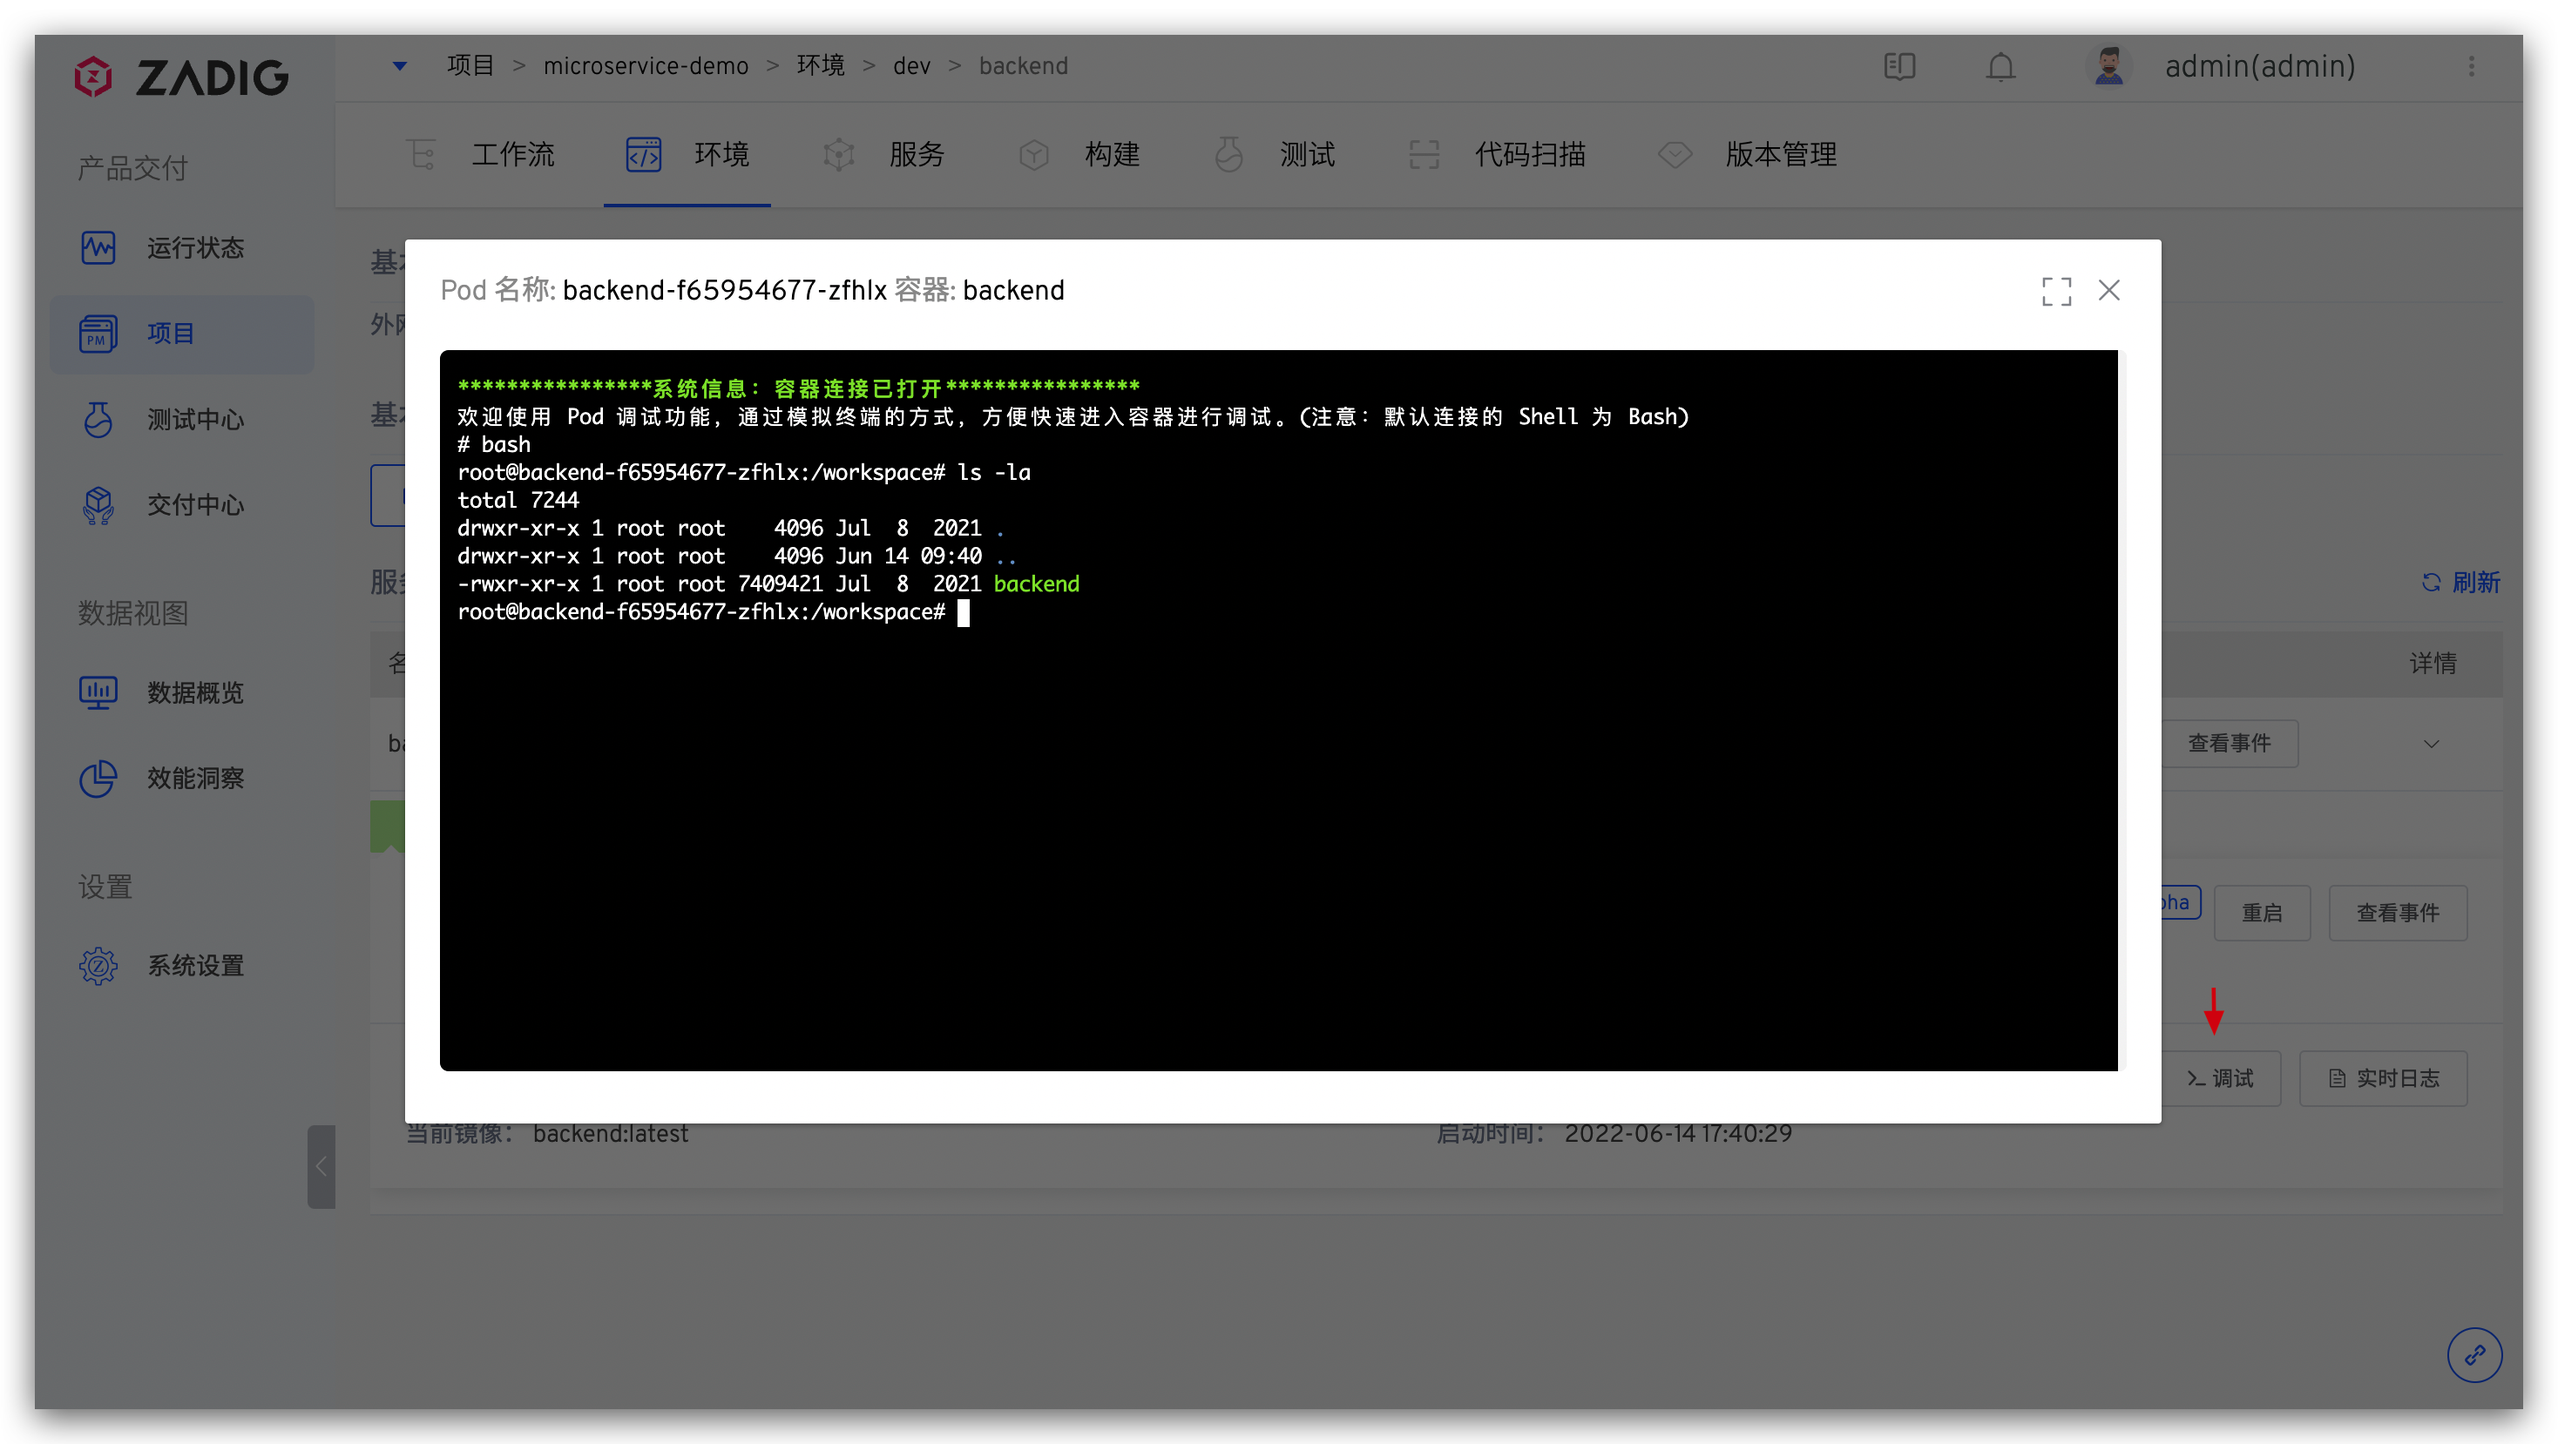
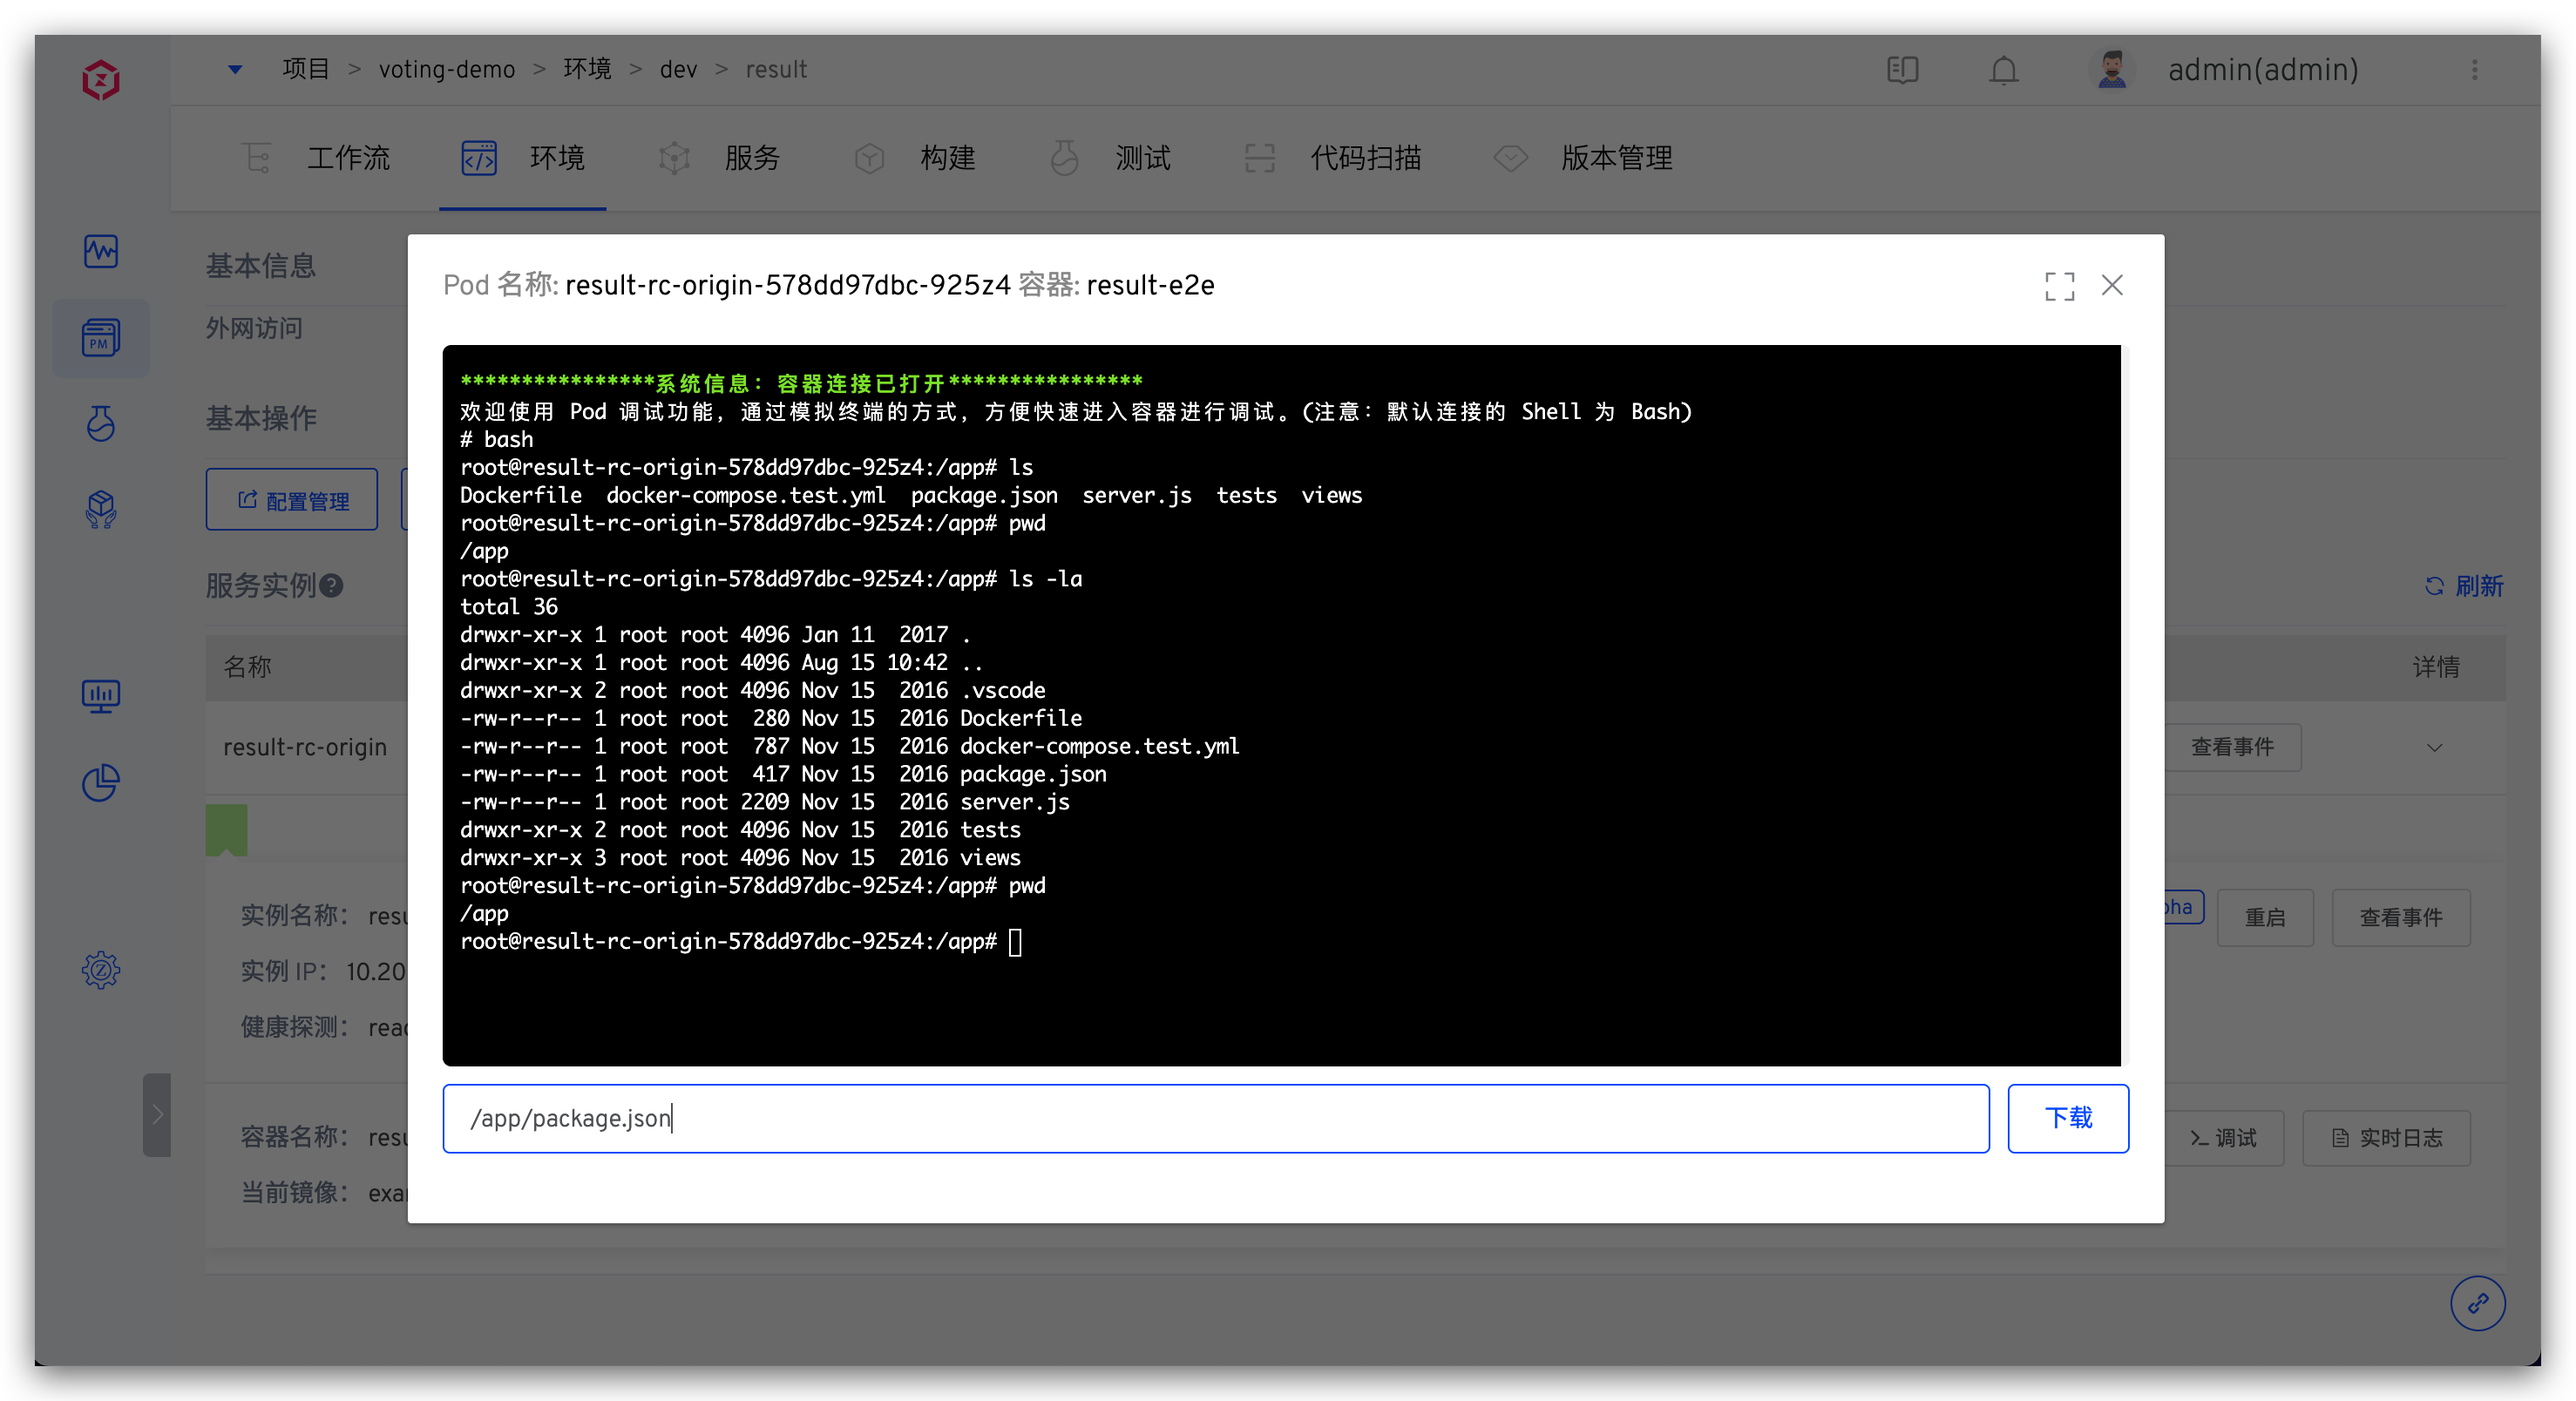
download file from Pod

diff --git a/dev/04.项目/03.环境/05.service.md b/dev/04.项目/03.环境/05.service.md
@@ -42,7 +42,7 @@ permalink: /dev/project/env/service/
 ![服务实例](../_images/show_pod_event.png)
 - `实时日志`：查看服务实例下指定容器的实时日志
 ![服务实例](../_images/show_k8s_service_log.png)
-- `调试`：登录到服务容器中进行调试
+- `调试`：登录到服务容器中进行调试，并支持下载容器中的文件
 ![服务实例](../_images/exec_to_pod.png)
 - `启动调试容器`<sup style='color: blue'>alpha</sup>：启动调试容器，可登录到调试容器中对服务进行 debug 调试，细节参考[启动调试容器](#启动调试容器)
 ![启动调试容器](../_images/zadig_debug_1.png)
